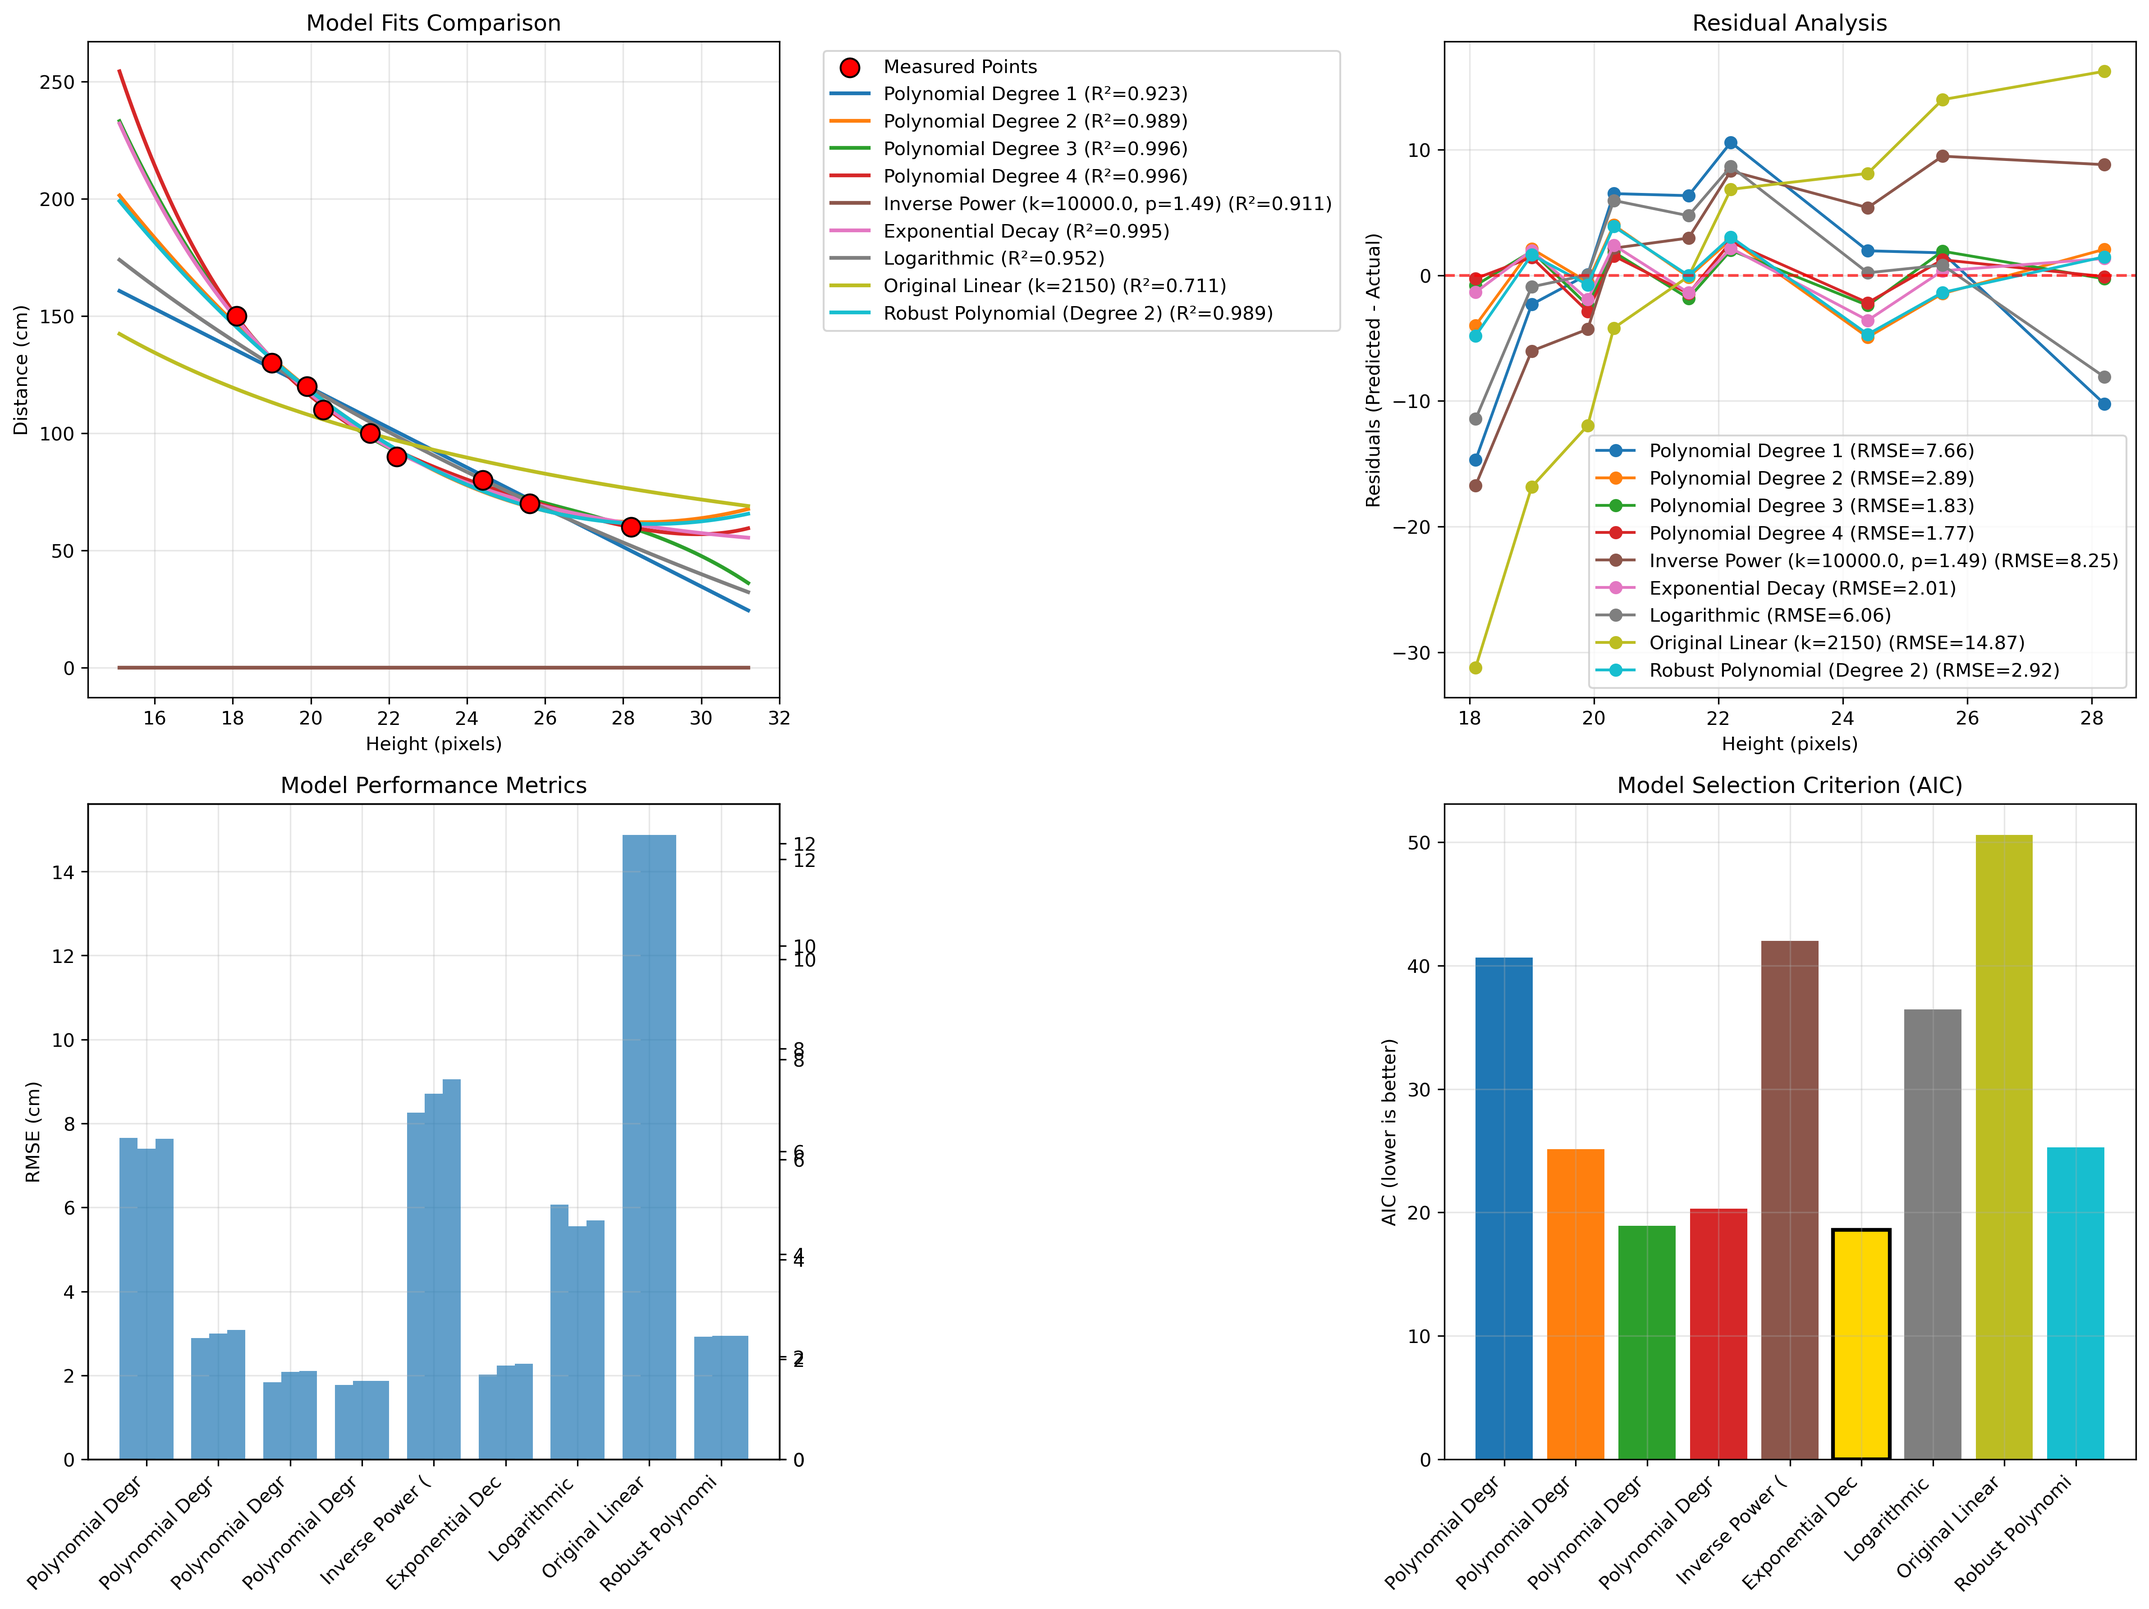
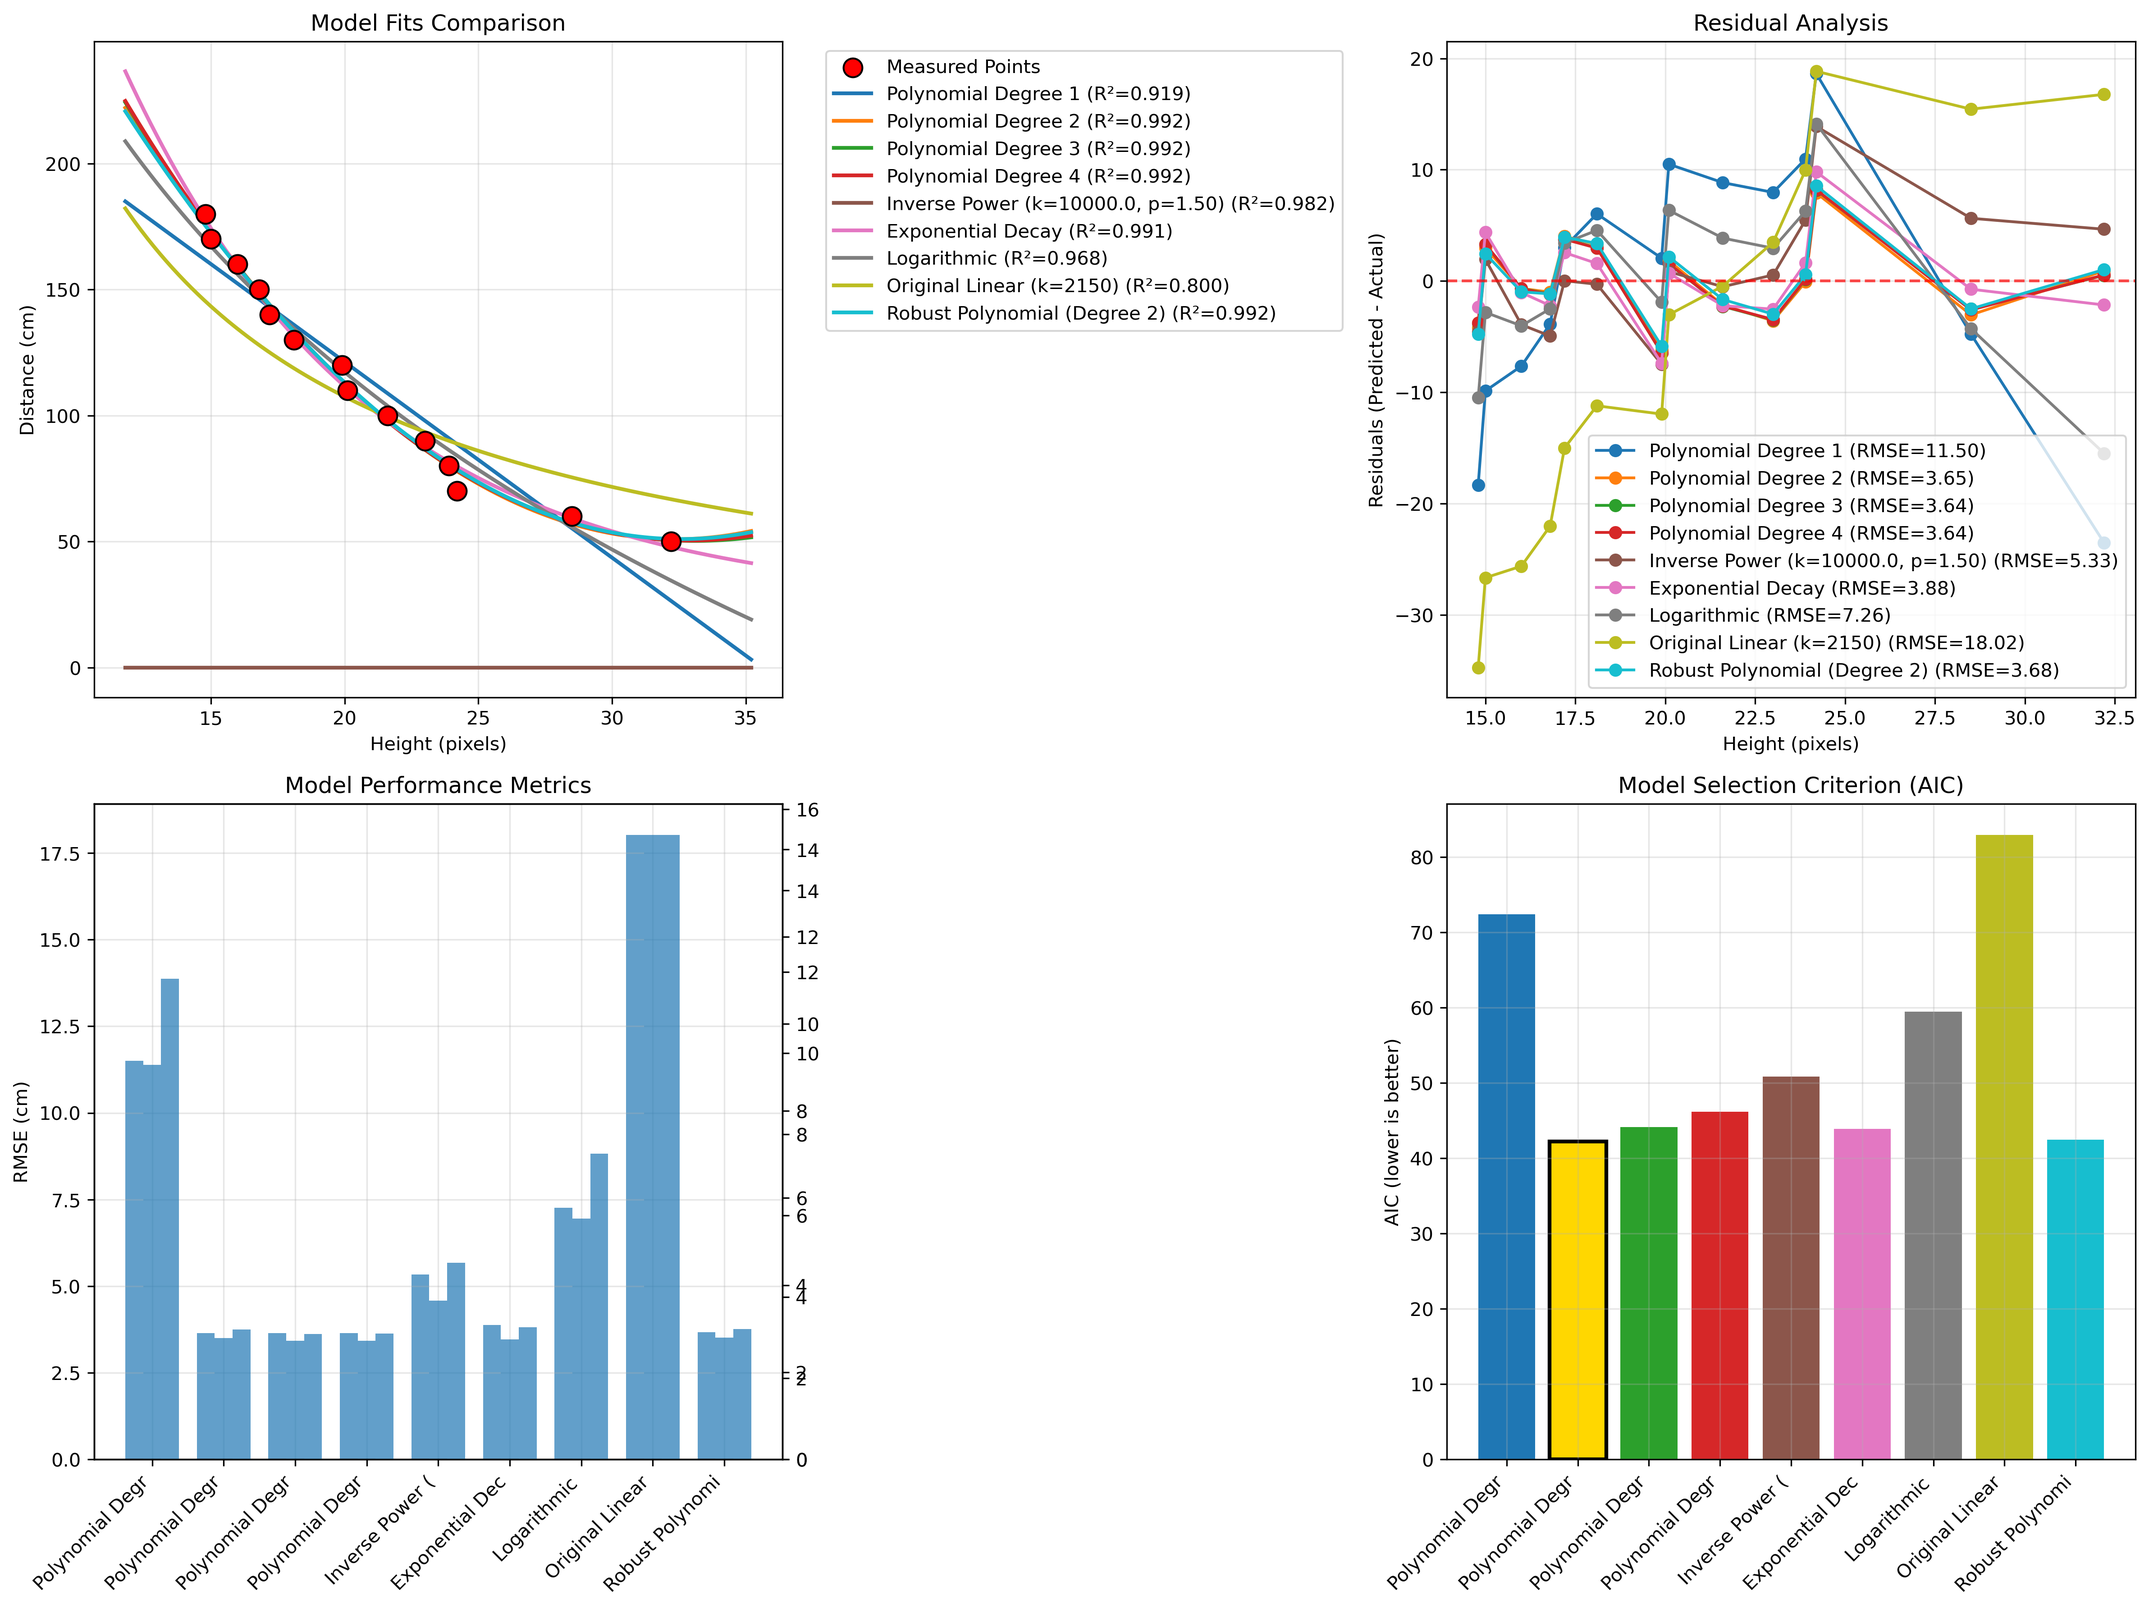
feat(hook): Refactor distance estimation models and parameters; add new parameters file

diff --git a/hook/hook/utils/distance_models.py b/hook/hook/utils/distance_models.py
@@ -340,6 +340,74 @@ class DistanceModelAnalyzer:
 
         return best_name, best_model
 
+    def print_all_model_coefficients(self):
+        """Print coefficients for all fitted models"""
+        print("\n" + "=" * 80)
+        print("COEFFICIENTS FOR ALL MODELS")
+        print("=" * 80)
+
+        for name, model in self.models.items():
+            print(f"\n--- {model['name']} ---")
+
+            if name.startswith("poly_"):
+                degree = int(name.split("_")[1])
+                coeffs = model["coeffs"]
+                print(f"Polynomial coefficients (highest to lowest power):")
+                for i, coef in enumerate(coeffs):
+                    power = degree - i
+                    if power == 0:
+                        term = f"{coef:.6f}"
+                    elif power == 1:
+                        term = f"{coef:.6f}*x"
+                    else:
+                        term = f"{coef:.6f}*x^{power}"
+                    print(f"  {term}")
+                print(
+                    f"\nUsage: DISTANCE_CALIBRATION_CONST = {coeffs[0]:.1f} (for highest order coefficient)"
+                )
+
+            elif name == "inverse_power":
+                k, p = model["coeffs"]
+                print(f"k = {k:.6f}")
+                print(f"p = {p:.6f}")
+                print(f"\nFormula: distance = {k:.1f} / (height^{p:.4f})")
+                print(
+                    f"Usage: DISTANCE_CALIBRATION_CONST = {k:.1f}, DISTANCE_POWER = {p:.4f}"
+                )
+
+            elif name == "exponential":
+                a, b, c = model["coeffs"]
+                print(f"a = {a:.6f}")
+                print(f"b = {b:.6f}")
+                print(f"c = {c:.6f}")
+                print(
+                    f"\nFormula: distance = {a:.1f} * exp(-{b:.6f} * height) + {c:.2f}"
+                )
+
+            elif name == "logarithmic":
+                a, b = model["coeffs"]
+                print(f"a = {a:.6f}")
+                print(f"b = {b:.6f}")
+                print(f"\nFormula: distance = {a:.2f} * ln(height) + {b:.2f}")
+
+            elif name == "original":
+                k = model["coeffs"][0]
+                print(f"k = {k:.6f}")
+                print(f"\nFormula: distance = {k:.1f} / height")
+                print(f"Usage: DISTANCE_CALIBRATION_CONST = {k:.1f}")
+
+            elif name == "robust_poly2":
+                coeffs = model["coeffs"]
+                a, b, c = coeffs
+                print(f"a (x²) = {a:.6f}")
+                print(f"b (x)  = {b:.6f}")
+                print(f"c      = {c:.6f}")
+                print(
+                    f"\nFormula: distance = {a:.6f}*height² + {b:.6f}*height + {c:.2f}"
+                )
+
+        print("\n" + "=" * 80)
+
     def generate_implementation_code(self, model_name):
         """Generate implementation code for the selected model"""
         model = self.models[model_name]
@@ -426,19 +494,142 @@ def estimate_distance_robust_poly2(height_px):
         else:
             return f"# Implementation for {model['name']} not yet templated"
 
+    def generate_parameters_file(self, output_path):
+        """Generate a Python file with all model parameters for use in the application."""
+        # Sort models by AIC (best first)
+        sorted_models = sorted(self.metrics.items(), key=lambda x: x[1]["aic"])
+        best_name = sorted_models[0][0]
+
+        # Create file content
+        content = [
+            '"""',
+            "Distance estimation model parameters for hook operation.",
+            "This file is automatically generated by distance_models.py.",
+            "Manual changes to this file may be overwritten.",
+            '"""',
+            "",
+        ]
+
+        # Add best model information as comment
+        content.append(
+            f"# Best model according to AIC: {self.models[best_name]['name']}"
+        )
+        content.append(
+            f"# AIC: {self.metrics[best_name]['aic']:.2f}, R²: {self.metrics[best_name]['r2']:.4f}, RMSE: {self.metrics[best_name]['rmse']:.2f} cm"
+        )
+        content.append("")
+
+        # Linear model parameters
+        if "original" in self.models:
+            k = self.models["original"]["coeffs"][0]
+            content.append("# -- Linear model constant --")
+            content.append(
+                f"DISTANCE_CALIBRATION_CONST = {k:.1f}  # cm*px (linear model k)"
+            )
+            content.append("")
+
+        # Exponential model parameters
+        if "exponential" in self.models:
+            a, b, c = self.models["exponential"]["coeffs"]
+            content.append("# -- Exponential model parameters --")
+            content.append(f"DISTANCE_EXP_A = {a:.6f}  # Amplitude")
+            content.append(f"DISTANCE_EXP_B = {b:.6f}  # Decay rate")
+            content.append(f"DISTANCE_EXP_C = {c:.6f}  # Offset")
+            content.append("")
+
+        # Polynomial model coefficients
+        poly_keys = [k for k in self.models.keys() if k.startswith("poly_")]
+        if poly_keys:
+            # Use the highest degree polynomial available
+            highest_poly = max(poly_keys, key=lambda x: int(x.split("_")[1]))
+            coeffs = self.models[highest_poly]["coeffs"]
+            degree = int(highest_poly.split("_")[1])
+
+            content.append("# -- Polynomial model coefficients --")
+            explanation = "# Format: ["
+            for i in range(degree, -1, -1):
+                if i > 1:
+                    explanation += f"a{i}, "
+                elif i == 1:
+                    explanation += "b, "
+                else:
+                    explanation += "c"
+            explanation += "] for "
+
+            for i in range(degree, -1, -1):
+                if i > 1:
+                    explanation += f"a{i}x^{i} + "
+                elif i == 1:
+                    explanation += "bx + "
+                else:
+                    explanation += "c"
+
+            content.append(explanation)
+            content.append("DISTANCE_POLY_COEFFS = [")
+            for coef in coeffs:
+                content.append(f"    {coef},")
+            content.append("]")
+            content.append("")
+
+        # Logarithmic model parameters
+        if "logarithmic" in self.models:
+            a, b = self.models["logarithmic"]["coeffs"]
+            content.append("# -- Logarithmic model parameters --")
+            content.append(f"DISTANCE_LOG_A = {a:.6f}  # Coefficient")
+            content.append(f"DISTANCE_LOG_B = {b:.6f}  # Offset")
+            content.append("")
+
+        # Inverse power model parameters
+        if "inverse_power" in self.models:
+            k, p = self.models["inverse_power"]["coeffs"]
+            content.append("# -- Inverse Power model parameters --")
+            content.append(f"DISTANCE_K = {k:.4f}  # Coefficient")
+            content.append(f"DISTANCE_P = {p:.4f}  # Power")
+            content.append("")
+
+        # Robust polynomial model parameters
+        if "robust_poly2" in self.models:
+            a, b, c = self.models["robust_poly2"]["coeffs"]
+            content.append("# -- Robust Polynomial Degree 2 model parameters --")
+            content.append(f"DISTANCE_ROBUST_A = {a:.6f}  # x² coefficient")
+            content.append(f"DISTANCE_ROBUST_B = {b:.6f}  # x coefficient  ")
+            content.append(f"DISTANCE_ROBUST_C = {c:.6f}  # constant term")
+            content.append("")
+
+        # Add target parameters
+        content.append("# -- Target parameters --")
+        content.append(
+            "TARGET_DISTANCE_CM = 20.0      # Target distance from hose in cm"
+        )
+        content.append(
+            "DISTANCE_TOLERANCE_CM = 2.0    # Tolerance for distance estimation"
+        )
+
+        # Write to file
+        with open(output_path, "w") as f:
+            f.write("\n".join(content))
+
+        print(f"\nParameters file generated at: {output_path}")
+        return output_path
+
 
 def main():
     # Your data points
     data_points = [
-        (60, 28.2),
-        (70, 25.6),
-        (80, 24.4),
-        (90, 22.2),
-        (100, 21.52),
-        (110, 20.32),
+        (50, 32.2),
+        (60, 28.5),
+        (70, 24.2),
+        (80, 23.9),
+        (90, 23),
+        (100, 21.6),
+        (110, 20.1),
         (120, 19.9),
-        (130, 19),
-        (150, 18.1),
+        (130, 18.1),
+        (140, 17.2),
+        (150, 16.8),
+        (160, 16),
+        (170, 15),
+        (180, 14.8),
     ]
 
     analyzer = DistanceModelAnalyzer(data_points)
@@ -452,14 +643,23 @@ def main():
     # Create plots
     fig = analyzer.plot_models_comparison()
     output_dir = os.path.dirname(os.path.abspath(__file__))
-    fig.savefig(os.path.join(output_dir, "model_comparison.png"), dpi=300, bbox_inches="tight")
+    fig.savefig(
+        os.path.join(output_dir, "model_comparison.png"), dpi=300, bbox_inches="tight"
+    )
 
     # Print detailed results
     best_name, best_model = analyzer.print_detailed_results()
 
+    # Print coefficients for all models
+    analyzer.print_all_model_coefficients()
+
     # Generate implementation code
     print("\nImplementation code for best model:")
     print(analyzer.generate_implementation_code(best_name))
+
+    # Generate parameters file
+    params_path = os.path.join(output_dir, "distance_parameters.py")
+    analyzer.generate_parameters_file(params_path)
 
 
 if __name__ == "__main__":

diff --git a/hook/hook/utils/distance_parameters.py b/hook/hook/utils/distance_parameters.py
@@ -1,0 +1,43 @@
+"""
+Distance estimation model parameters for hook operation.
+This file is automatically generated by distance_models.py.
+Manual changes to this file may be overwritten.
+"""
+
+# Best model according to AIC: Polynomial Degree 2
+# AIC: 42.25, R²: 0.9918, RMSE: 3.65 cm
+
+# -- Linear model constant --
+DISTANCE_CALIBRATION_CONST = 2150.0  # cm*px (linear model k)
+
+# -- Exponential model parameters --
+DISTANCE_EXP_A = 764.061183  # Amplitude
+DISTANCE_EXP_B = 0.108721  # Decay rate
+DISTANCE_EXP_C = 24.791544  # Offset
+
+# -- Polynomial model coefficients --
+# Format: [a4, a3, a2, b, c] for a4x^4 + a3x^3 + a2x^2 + bx + c
+DISTANCE_POLY_COEFFS = [
+    6.851615656486516e-05,
+    -0.008880076049142692,
+    0.7963046331872384,
+    -33.309592345506495,
+    520.2857939249507,
+]
+
+# -- Logarithmic model parameters --
+DISTANCE_LOG_A = -173.667171  # Coefficient
+DISTANCE_LOG_B = 637.480102  # Offset
+
+# -- Inverse Power model parameters --
+DISTANCE_K = 10000.0000  # Coefficient
+DISTANCE_P = 1.5004  # Power
+
+# -- Robust Polynomial Degree 2 model parameters --
+DISTANCE_ROBUST_A = 0.393453  # x² coefficient
+DISTANCE_ROBUST_B = -25.630841  # x coefficient  
+DISTANCE_ROBUST_C = 234.170359  # constant term
+
+# -- Target parameters --
+TARGET_DISTANCE_CM = 20.0      # Target distance from hose in cm
+DISTANCE_TOLERANCE_CM = 2.0    # Tolerance for distance estimation

diff --git a/hook/hook/constants.py b/hook/hook/constants.py
@@ -60,40 +60,6 @@ CENTERING_CONFIRMATIONS = 28  # Consecutive low effort confirmations
 DESCEND_SPEED = -0.2  # m/s (negative for downward)
 DESCEND_TIMEOUT = 300  # Timeout for descent in seconds
 
-# -- Distance estimation
-# linear model constant
-DISTANCE_CALIBRATION_CONST = 2150  # cm*px (21.5px at 100cm)
-
-# Exponential model parameters
-DISTANCE_EXP_A = 3869.716353
-DISTANCE_EXP_B = 0.201755
-DISTANCE_EXP_C = 48.252341
-
-# Polynomial
-DISTANCE_POLY_COEFFS = [
-    0.00885626433895872,
-    -0.9019966839116298,
-    34.69224987787756,
-    -602.3613120416837,
-    4085.0319538225926,
-]
-
-# Logarithmic (placeholder, not used)
-DISTANCE_LOG_A = 0.0
-DISTANCE_LOG_B = 0.0
-
-# Inverse Power (placeholder, not used)
-DISTANCE_K = 0.0
-DISTANCE_P = 0.0
-
-DISTANCE_ROBUST_A = 0.0
-DISTANCE_ROBUST_B = 0.0
-DISTANCE_ROBUST_C = 0.0
-
-
-TARGET_DISTANCE_CM = 20.0  # Target distance from hose in cm
-DISTANCE_TOLERANCE_CM = 2.0  # Tolerance for distance estimation
-
 # Descend PID Parameters
 DESCEND_KP_Z = 0.014  # Proportional gain for descent speed
 DESCEND_KP_Y = 0.0017  # Proportional gain for lateral speed

diff --git a/hook/hook/states/hook_operations/descend_to_hook.py b/hook/hook/states/hook_operations/descend_to_hook.py
@@ -13,15 +13,19 @@ from hook.constants import (
     IMAGE_CENTER_X,
     IMAGE_CENTER_Y,
     LINE_DETECTION_RED_COLOR_NAME,
-    TARGET_DISTANCE_CM,
-    DISTANCE_TOLERANCE_CM,
     DESCEND_KP_Z,
     DESCEND_KP_Y,
     DESCEND_KP_X,
     DESCEND_MAX_SPEED_Z,
     DESCEND_MAX_SPEED_XY,
 )
+from hook.utils.distance_parameters import (
+    DISTANCE_CALIBRATION_CONST,
+    TARGET_DISTANCE_CM,
+    DISTANCE_TOLERANCE_CM,
+)
 from hook.utils.distance_estimation import DistanceEstimator, EstimationMethod
+from mirela_interfaces.msg import LineInfo
 from mirela_interfaces.msg import LineInfo
 from mirela_sdk.image_processing.camera.image_calculus import ImageCalculus
 

diff --git a/hook/hook/utils/distance_estimation.py b/hook/hook/utils/distance_estimation.py
@@ -2,7 +2,7 @@ import numpy as np
 from enum import Enum
 from typing import Union, Optional, Dict, Any
 import logging
-from hook.constants import (
+from hook.utils.distance_parameters import (
     DISTANCE_POLY_COEFFS,
     DISTANCE_CALIBRATION_CONST,
     DISTANCE_EXP_A,
@@ -15,6 +15,8 @@ from hook.constants import (
     DISTANCE_ROBUST_A,
     DISTANCE_ROBUST_B,
     DISTANCE_ROBUST_C,
+    TARGET_DISTANCE_CM,
+    DISTANCE_TOLERANCE_CM,
 )
 
 

diff --git a/hook/hook/states/hook_operations/center_red_blob.py b/hook/hook/states/hook_operations/center_red_blob.py
@@ -30,6 +30,7 @@ from hook.constants import (
     LINE_DETECTION_RED_CENTERING_TITLE,
     TAKEOFF_ALTITUDE,
 )
+from hook.utils.distance_parameters import DISTANCE_CALIBRATION_CONST
 from hook.utils.distance_estimation import DistanceEstimator, EstimationMethod
 
 
